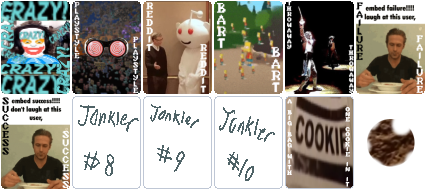
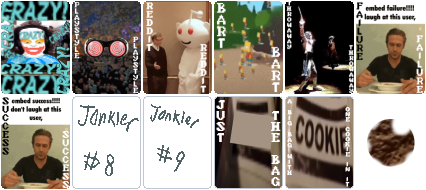
Add Just the Bag

Changed region(s): [[0.4883, 0.5, 0.6714, 1.0]]

diff --git a/README.md b/README.md
@@ -20,14 +20,16 @@ Finally, start Balatro and have fun!
 ### Jokers
 **Crazy Eights** Joker: (based on the LTLVC5/Grunk bit) X8 Mult, gains X8 Mult on round end.
 
-**Playstyle** Joker: (Inside Joke) Flips all face-down cards to be face-up.
+**Playstyle** Joker: (Inside Joke) Flips all **face-down** cards to be **face-up**.
 
 **Click the Bart** Joker: WIP
 
 ### Consumables
 **A Big Bag** Spectral Card: With one **cookie** in it.
 
-**Cookie** Spectral Card: Gives back all discards used.
+**Just the Bag** Spectral Card: Gives back **all hands** played.
+
+**Cookie** Spectral Card: Gives back **all discards** used.
 
 ### Decks
 **Take my Playstyle** Deck: Starts with all GTD Cards
